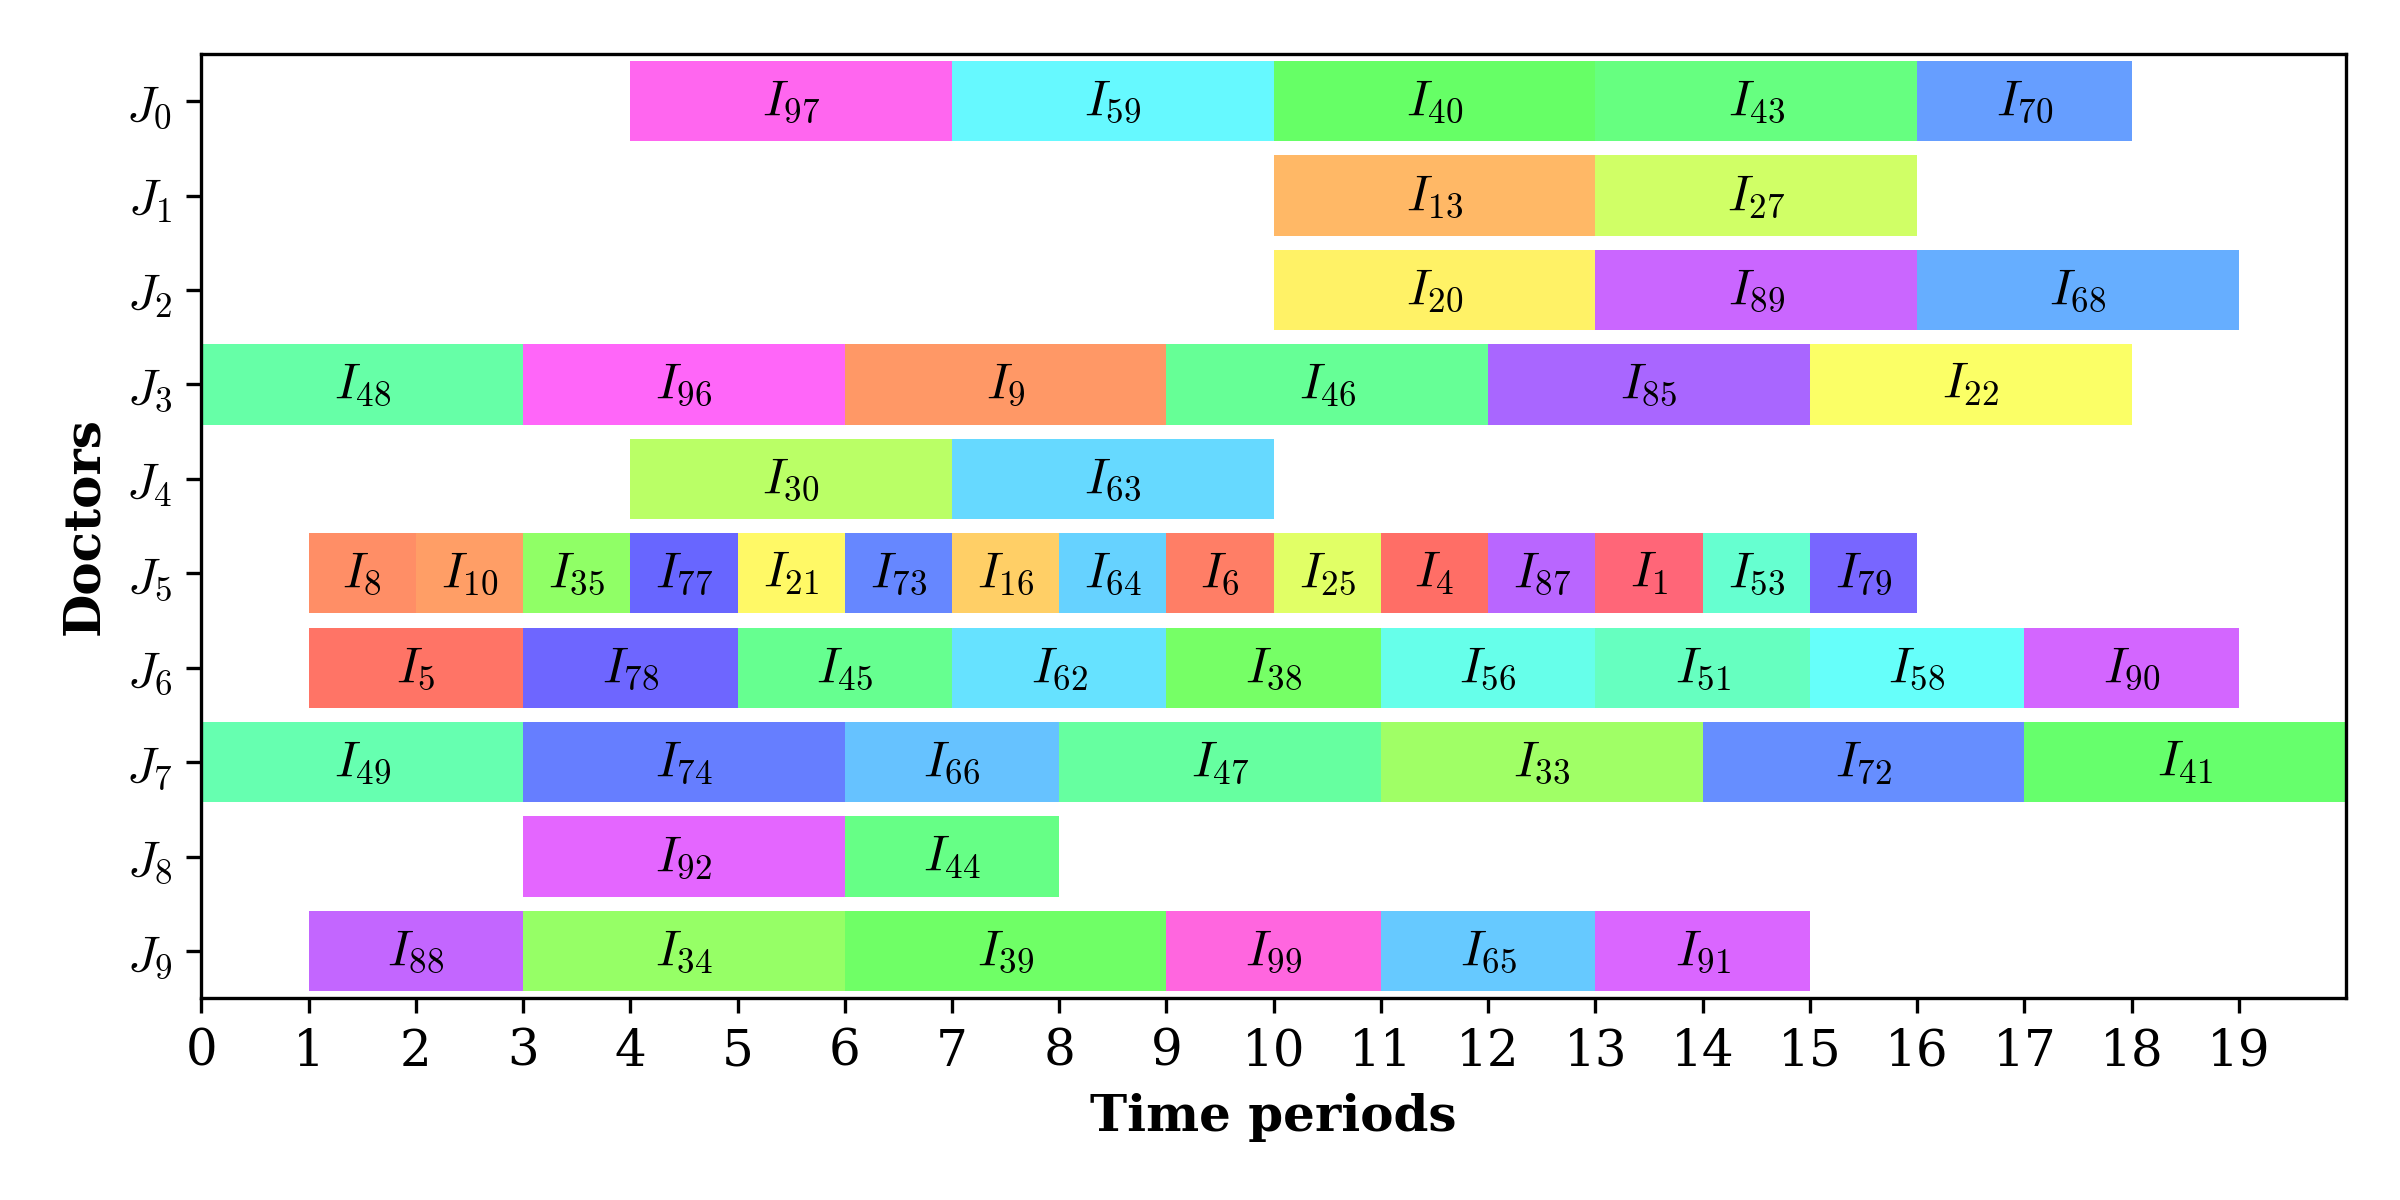
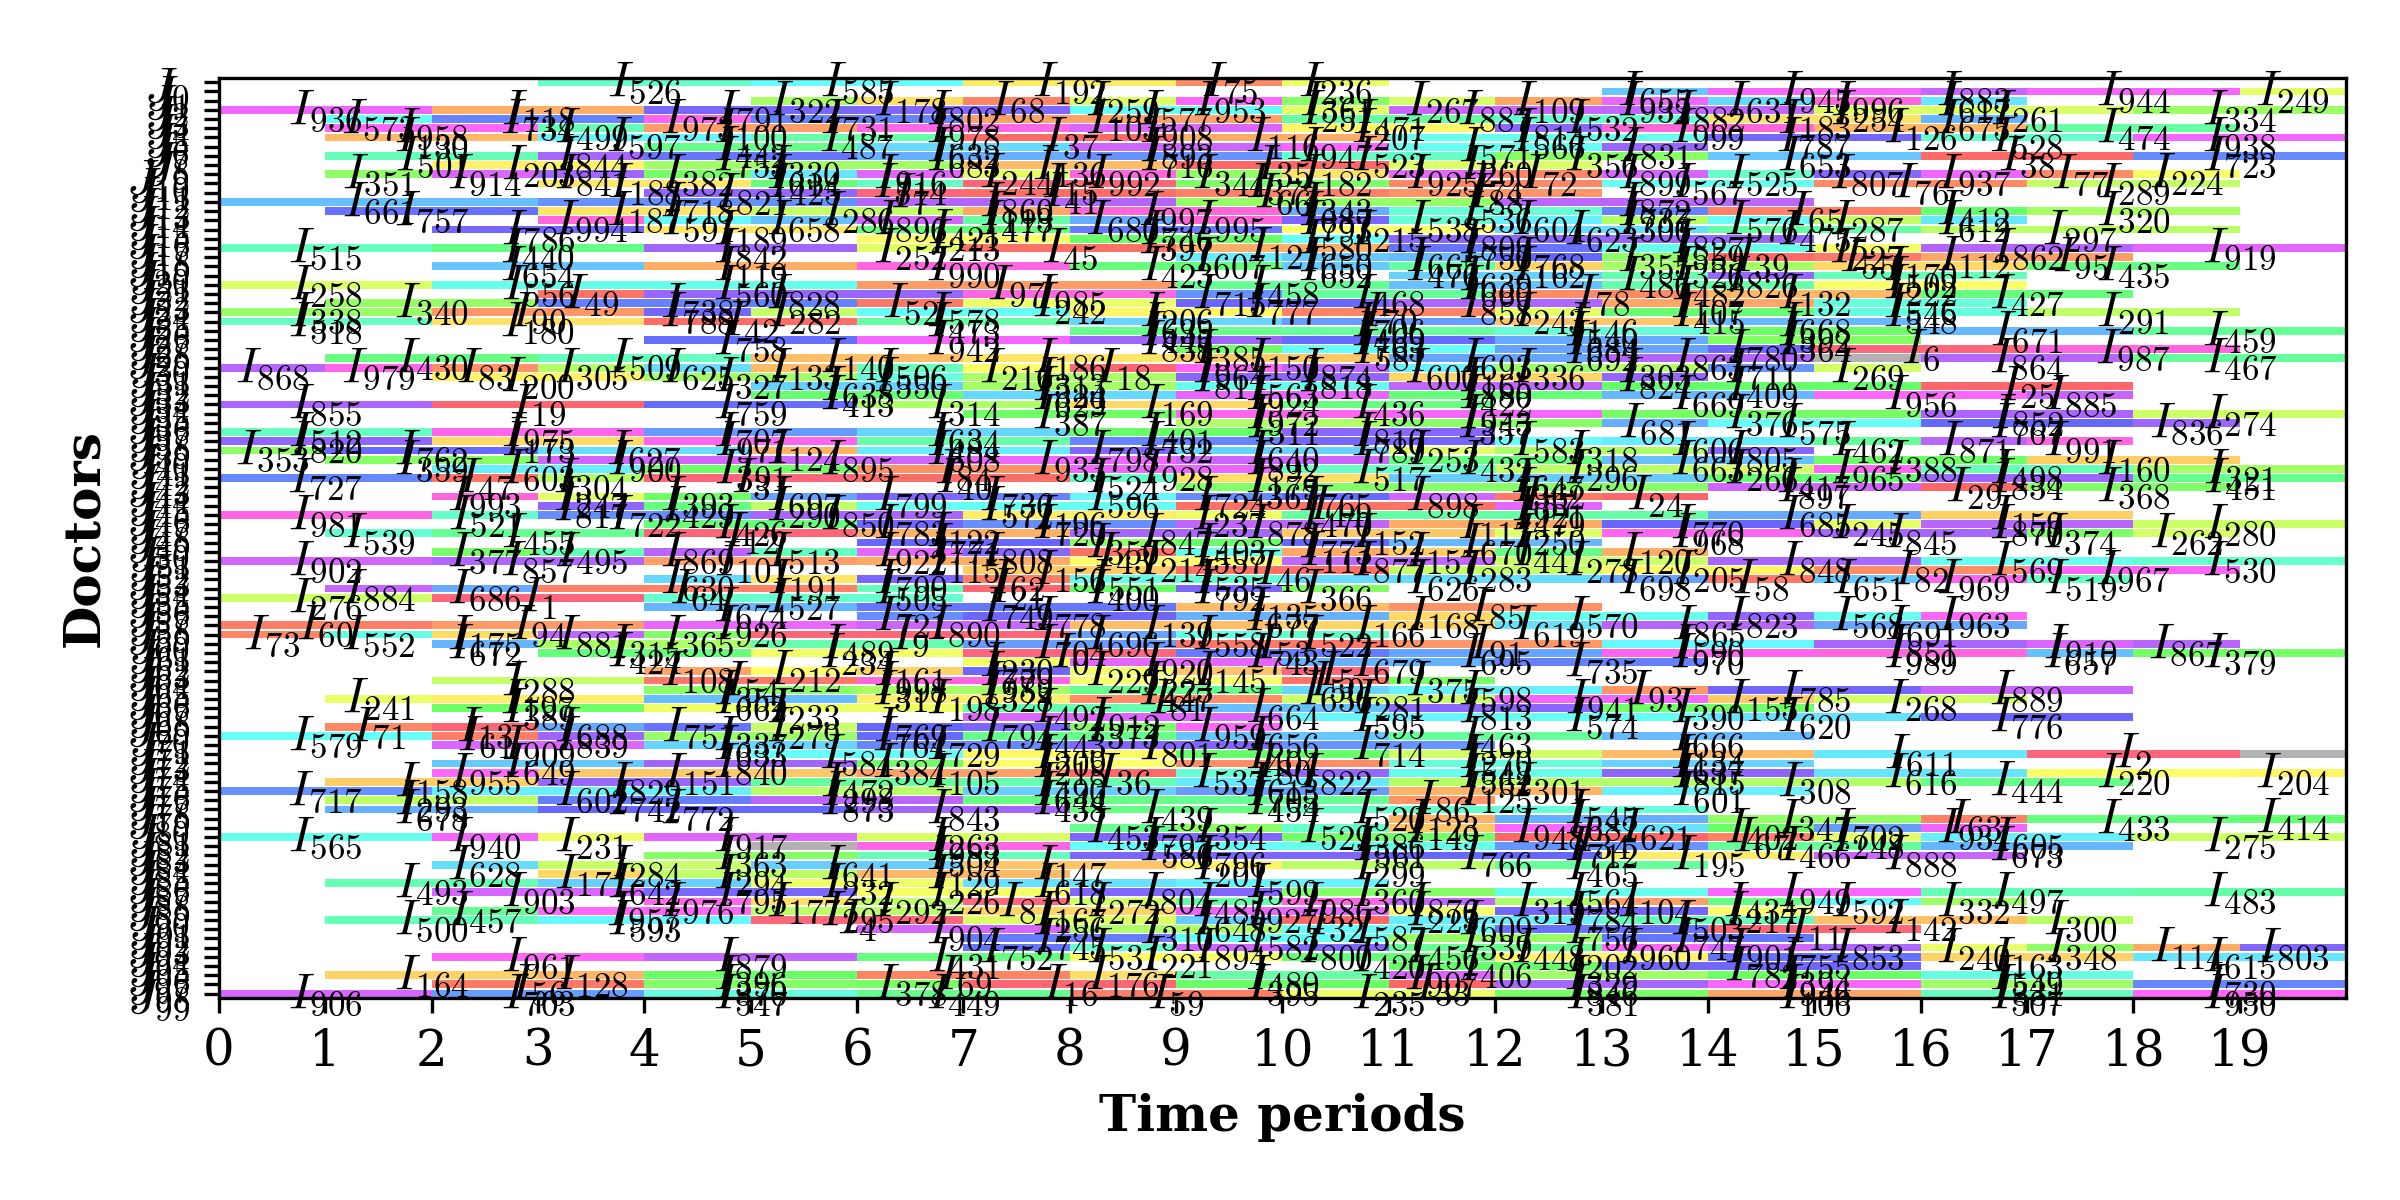
Add printing timing information when logging results

diff --git a/doctor_available_IP.py b/doctor_available_IP.py
@@ -7,7 +7,7 @@ import pickle
 import json
 import time
 
-with open("data_seed10_I100_J10_K4_T20.pkl", "rb") as f:
+with open("data_seed10_I1000_J100_K10_T20.pkl", "rb") as f:
     data = pickle.load(f)
 
 # put everything in the global namespace
@@ -80,62 +80,63 @@ for j in J}
 
 m.setParam("OutputFlag", 0)
 
-model_results = {}
+# model_results = {}
 
 m.update()
 
 # Record before presolve info
-setup_time = time.time() - start_time
-before_presolve_info = {
-    "num_variables": m.NumVars,
-    "num_constraints": m.NumConstrs,
-    "num_nonzeros": m.NumNZs,
-    "setup_time_seconds": setup_time
-}
+# setup_time = time.time() - start_time
+# before_presolve_info = {
+#     "num_variables": m.NumVars,
+#     "num_constraints": m.NumConstrs,
+#     "num_nonzeros": m.NumNZs,
+#     "setup_time_seconds": setup_time
+# }
 
-# Just make sure to store presolve info:
-model_results["before_presolve_info"] = before_presolve_info
+# # Just make sure to store presolve info:
+# model_results["before_presolve_info"] = before_presolve_info
 
 m.setParam("OutputFlag", 1)  # enable log
-m.setParam("LogFile", "gurobi_presolve.log")
+# m.setParam("LogFile", "gurobi_presolve.log")
 
 # Objective 1: Max. number of matches
 print("Objective 1: Max. number of matches")
 
 m.setObjective(gp.quicksum(Y[i,j,t] for k in K for i in I_k[k] for j in J_k[k] for t in compatible_times[i,j]), gp.GRB.MAXIMIZE)
-#optimise_and_print_schedule(m, M1, Y, I, J, K, T, I_k, treat, allocate_rank, qualified, doctor_rank, patient_available, patient_time_prefs, doctor_times)
-model_results["max_matches"] = optimise_and_collect("Max matches", m, Y, M1, I, J, K, T, I_k, treat, allocate_rank, qualified, doctor_rank, patient_available, patient_time_prefs)
 
-# Objective 2: Max. patient satisfaction
-print("Objective 2: Max. patient satisfaction")
+optimise_and_print_schedule(m, M1, Y, I, J, K, T, I_k, treat, allocate_rank, qualified, doctor_rank, patient_available, patient_time_prefs, doctor_times)
+# model_results["max_matches"] = optimise_and_collect("Max matches", m, Y, M1, I, J, K, T, I_k, treat, allocate_rank, qualified, doctor_rank, patient_available, patient_time_prefs)
 
-numberAvailableDoctors = [sum(allocate_rank[i][jj] != M1 for jj in J) for i in I]
-patientDoctorScore = [[(numberAvailableDoctors[i] - allocate_rank[i][j] + 1) / numberAvailableDoctors[i] for j in J] for i in I]
-patientTimeScore = [[(patient_available[i][1] + 1 - patient_time_prefs[i][t]) / patient_available[i][1] for t in T] for i in I]
+# # Objective 2: Max. patient satisfaction
+# print("Objective 2: Max. patient satisfaction")
 
-m.setObjective(gp.quicksum(Y[i,j,t] * 
-                           (
-                                patientDoctorScore[i][j] 
-                                + 
-                                sum(patientTimeScore[i][t:min(t + treat[j][k], len(T))]) / treat[j][k]
-                            )
-                           for k in K for i in I_k[k] for j in J_k[k] for t in compatible_times[i,j]), gp.GRB.MAXIMIZE)
-#optimise_and_print_schedule(m, M1, Y, I, J, K, T, I_k, treat, allocate_rank, qualified, doctor_rank, patient_available, patient_time_prefs, doctor_times)
-# m.optimize()
-model_results["patient_satisfaction"] = optimise_and_collect("Max patient satisfaction", m, Y, M1, I, J, K, T, I_k, treat, allocate_rank, qualified, doctor_rank, patient_available, patient_time_prefs)
+# numberAvailableDoctors = [sum(allocate_rank[i][jj] != M1 for jj in J) for i in I]
+# patientDoctorScore = [[(numberAvailableDoctors[i] - allocate_rank[i][j] + 1) / numberAvailableDoctors[i] for j in J] for i in I]
+# patientTimeScore = [[(patient_available[i][1] + 1 - patient_time_prefs[i][t]) / patient_available[i][1] for t in T] for i in I]
+
+# m.setObjective(gp.quicksum(Y[i,j,t] * 
+#                            (
+#                                 patientDoctorScore[i][j] 
+#                                 + 
+#                                 sum(patientTimeScore[i][t:min(t + treat[j][k], len(T))]) / treat[j][k]
+#                             )
+#                            for k in K for i in I_k[k] for j in J_k[k] for t in compatible_times[i,j]), gp.GRB.MAXIMIZE)
+# #optimise_and_print_schedule(m, M1, Y, I, J, K, T, I_k, treat, allocate_rank, qualified, doctor_rank, patient_available, patient_time_prefs, doctor_times)
+# # m.optimize()
+# model_results["patient_satisfaction"] = optimise_and_collect("Max patient satisfaction", m, Y, M1, I, J, K, T, I_k, treat, allocate_rank, qualified, doctor_rank, patient_available, patient_time_prefs)
 
 
-# Objective 3: Max. doctor satisfaction
-print("Objective 3: Max. doctor satisfaction")
+# # Objective 3: Max. doctor satisfaction
+# print("Objective 3: Max. doctor satisfaction")
 
-doctor_num_diseases_can_treat = [sum(qualified[j]) for j in J]
-doctor_disease_rank_scores = [[qualified[j][k] * (doctor_num_diseases_can_treat[j] - doctor_rank[j][k] + 1)/doctor_num_diseases_can_treat[j] + (1 - qualified[j][k]) * -M1 for k in K] for j in J]
+# doctor_num_diseases_can_treat = [sum(qualified[j]) for j in J]
+# doctor_disease_rank_scores = [[qualified[j][k] * (doctor_num_diseases_can_treat[j] - doctor_rank[j][k] + 1)/doctor_num_diseases_can_treat[j] + (1 - qualified[j][k]) * -M1 for k in K] for j in J]
 
-m.setObjective(gp.quicksum((doctor_disease_rank_scores[j][k]) * Y[i,j,t] for k in K for i in I_k[k] for j in J_k[k] for t in compatible_times[i,j]), gp.GRB.MAXIMIZE)
-#optimise_and_print_schedule(m, M1, Y, I, J, K, T, I_k, treat, allocate_rank, qualified, doctor_rank, patient_available, patient_time_prefs, doctor_times)
-model_results["doctor_satisfaction"] = optimise_and_collect("Max doctor satisfaction", m, Y, M1, I, J, K, T, I_k, treat, allocate_rank, qualified, doctor_rank, patient_available, patient_time_prefs)
+# m.setObjective(gp.quicksum((doctor_disease_rank_scores[j][k]) * Y[i,j,t] for k in K for i in I_k[k] for j in J_k[k] for t in compatible_times[i,j]), gp.GRB.MAXIMIZE)
+# #optimise_and_print_schedule(m, M1, Y, I, J, K, T, I_k, treat, allocate_rank, qualified, doctor_rank, patient_available, patient_time_prefs, doctor_times)
+# model_results["doctor_satisfaction"] = optimise_and_collect("Max doctor satisfaction", m, Y, M1, I, J, K, T, I_k, treat, allocate_rank, qualified, doctor_rank, patient_available, patient_time_prefs)
 
-# write model results into json file
-with open("all_model_results.json", "w") as f:
-    json.dump(model_results, f, indent=4)
+# # write model results into json file
+# with open("all_model_results.json", "w") as f:
+#     json.dump(model_results, f, indent=4)
 

diff --git a/logging_results.py b/logging_results.py
@@ -24,7 +24,10 @@ def parse_presolve_log(m, logfile="gurobi_presolve.log"):
 
 
 def optimise_and_print_schedule(m, M1, Y, I, J, K, T, I_k, treat, allocate_rank, qualified, doctor_rank, patient_available, patient_time_prefs, doctor_times):
+    start_time = time.perf_counter()
     m.optimize()
+    print("optimising time:", time.perf_counter() - start_time)
+    
     Yvals = {key: Y[key].x for key in Y}
     Ys = {(i,j,t): Yvals.get((i,j,t), 0) for i in I for j in J for t in T}
 

diff --git a/data_gen.py b/data_gen.py
@@ -97,9 +97,9 @@ if __name__ == "__main__":
     random.seed(SEED)
 
     problem_size = {
-            "patients": 20,
-            "doctors":  5,
-            "diseases": 2,
+            "patients": 1000,
+            "doctors":  100,
+            "diseases": 10,
             "time periods": 20
         }
     if len(sys.argv) > 1: # have arguemnts

diff --git a/cg_huge.py b/cg_huge.py
@@ -62,4 +62,4 @@ data_names = ["cg_smart_output_I5_J5_T20_K2.pkl","cg_smart_output_I10_J5_T20_K2.
 
 # for data_name in data_names[:1]:
 #     do_huge(data_name)
-do_huge("cg_smart_output_I15_J5_T20_K2.pkl")
+do_huge("cg_smart_output_I25_J5_T20_K2.pkl")
